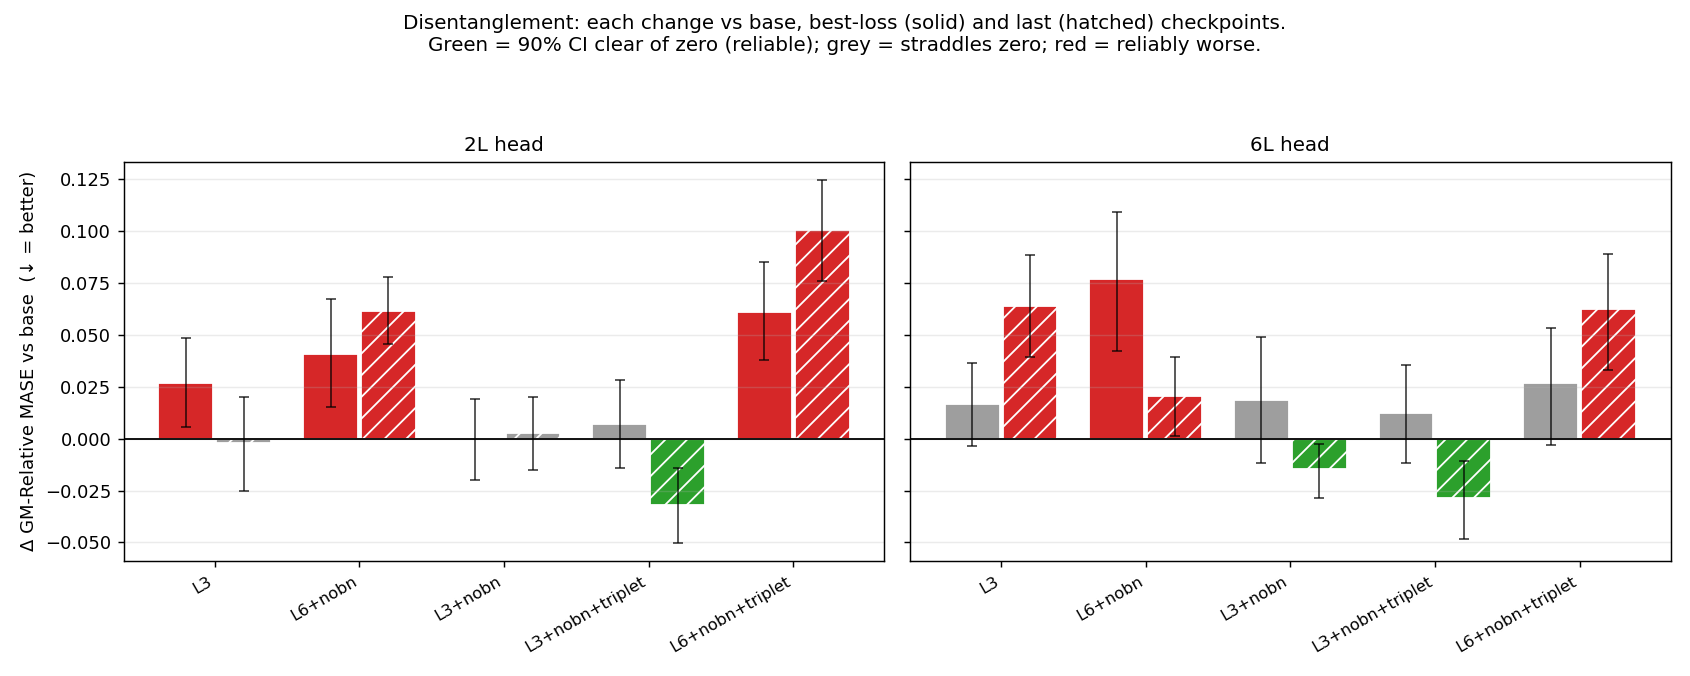
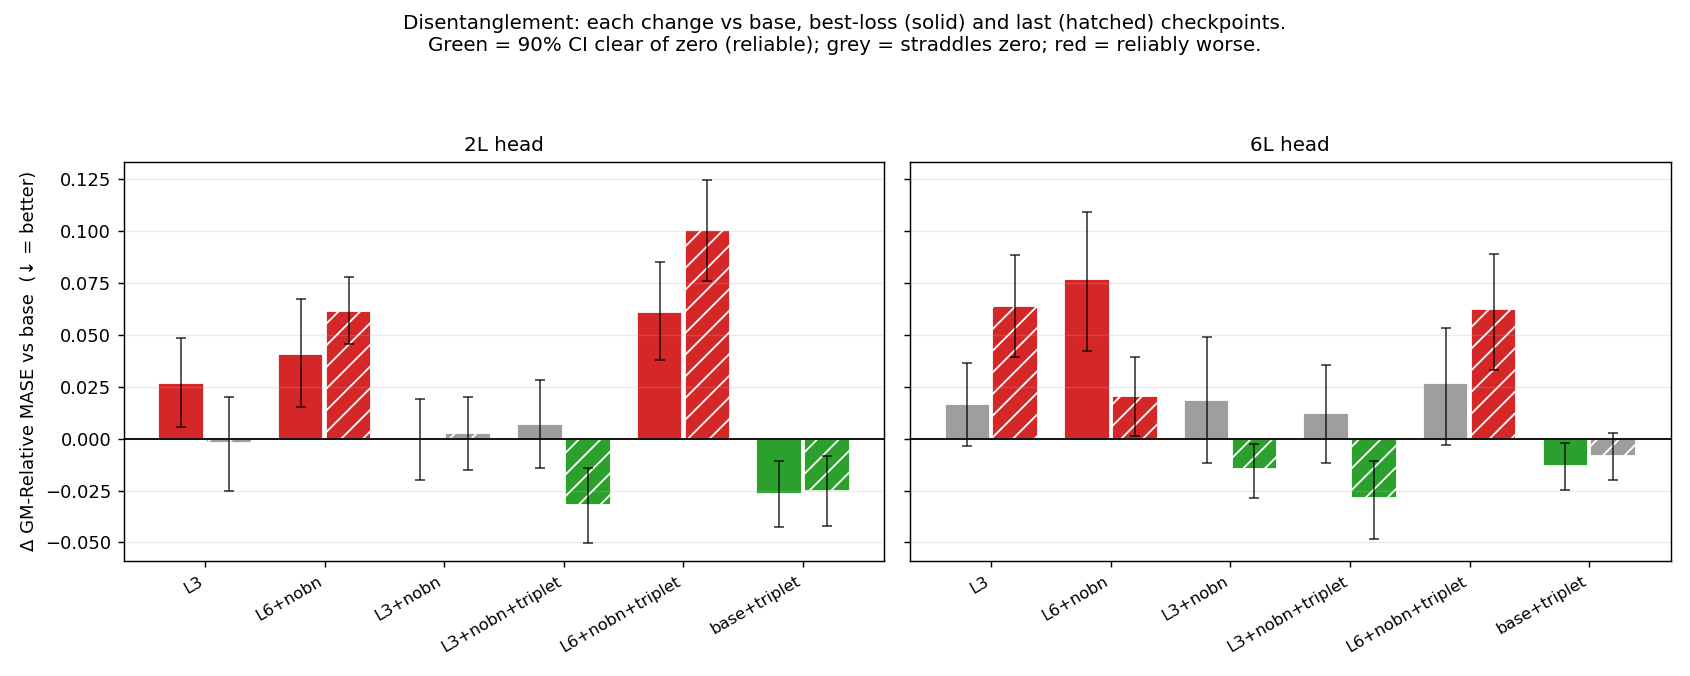
report: final 8-arm results — triplet alone wins on base; two-candidate framing; base+triplet 6L-last ns

diff --git a/experiments/2026-06-03_crossfade_triplet/crossfade_triplet.md b/experiments/2026-06-03_crossfade_triplet/crossfade_triplet.md
@@ -104,9 +104,10 @@ At step 12,500 the arms rank on the pretext task in the opposite order to their 
   loss 0.662 and U_batch 0.197, the easiest pretext and the most-used embedding among the arms) — yet
   it transfers worst.
 
-On this benchmark a lower contrastive loss is not a sign of a better forecasting backbone; the
-triplet's harder pretext is what tracks the downstream gain. No arm collapsed: every used-dimension
-count stays well above zero and forecast-to-future cosine reaches ~0.99.
+On this benchmark a lower contrastive loss is not a sign of a better forecasting backbone. (A harder
+pretext is not required for a gain either — see base+triplet in the follow-up section, which leaves
+the pretext loss essentially unchanged and still transfers better.) No arm collapsed: every
+used-dimension count stays well above zero and forecast-to-future cosine reaches ~0.99.
 
 ## Protocol
 
@@ -136,31 +137,51 @@ comparison measures a joint effect; the disentanglement arms isolate the compone
    heads, and only at full training.
 3. **Train-longer hurts.** Extending to 25k reliably worsens both heads (2L +0.037, 6L +0.024);
    downstream peaks near 12.5k, within the first epoch.
-4. **Lower contrastive loss does not mean better transfer here.** The triplet raises the pretext loss
-   yet improves downstream; dropping the bottleneck lowers the pretext loss yet transfers worst.
+4. **Pretext loss does not predict transfer in either direction.** Dropping the bottleneck gives the
+   lowest contrastive loss and the worst transfer; the headline arm raises the loss and transfers
+   better; base+triplet leaves the loss essentially unchanged (0.881 vs 0.895) and still transfers
+   reliably better. Checkpoint and arm selection should not be driven by the contrastive loss.
 
 ## Follow-up — triplet isolation across architectures
 
 The headline arm bundles the triplet with two architecture changes. Two further arms isolate the
-triplet's effect; L6+nobn+triplet is complete, base+triplet is still training.
+triplet's effect: each pair below differs from its own reference by the triplet alone.
 
-| arm | difference from its base | what it tests | result |
-|---|---|---|---|
-| L6+nobn+triplet | adds the triplet to L6+nobn | does the triplet rescue the otherwise-harmful full-width forecaster at 6 encoder layers? | **No** — reliably worse than base and *degrades* with training: 2L 1.274 → 1.313 (last Δ +0.101), 6L 1.225 → 1.261 (last Δ +0.062). |
-| base+triplet | adds only the triplet to the base | cleanest triplet isolation — base vs base+triplet differ by the triplet alone | pending (backbone training, ETA tonight) |
+| arm | difference from its base | result |
+|---|---|---|
+| **base+triplet** | adds only the triplet to the unmodified base | **Reliably better at both heads at best-loss, and at 2L robust to checkpoint choice**: 2L best 1.186 (Δ −0.027 [−0.042, −0.011]), 2L last 1.187 (Δ −0.025 [−0.042, −0.008]), 6L best 1.185 (Δ −0.013 [−0.025, −0.002]), 6L last 1.190 (Δ −0.008 [−0.020, +0.003], same direction, ns). |
+| L6+nobn+triplet | adds the triplet to L6+nobn | Reliably worse than base and *degrades* with training: 2L 1.274 → 1.313 (last Δ +0.101), 6L 1.225 → 1.261 (last Δ +0.062). |
 
-**The triplet is encoder-depth-specific.** It helps only with the 3-layer encoder: L3+nobn+triplet
-improves with training to a reliable win, while L6+nobn+triplet (the same change on a 6-layer
-encoder) is harmful and worsens with training. This matches the pretext dynamics — at 3 layers the
-triplet raises the contrastive loss (a harder pretext that transfers), whereas at 6 layers the larger
-encoder absorbs it (loss 0.655, essentially the L6+nobn value 0.662), so there is no harder pretext
-and no transfer gain.
+Two readings follow.
 
-The predecessor #326 (a C-only crossfade slice on the 10%-fork base) gave ≈−0.013 over its base,
-smaller than the ≈−0.030 last-checkpoint gain here, so base+triplet is expected to show a modest
-positive effect; the magnitude will fix how much of this arm's gain is the triplet versus an
-interaction with the architecture changes. A further follow-up (carded separately) tests a
-stop-gradient on the encoder's positive term in this best arm.
+**The triplet alone is sufficient.** On the unmodified base it is reliably better at both heads at
+the best-loss checkpoint, without any architecture change — and unlike the headline arm, whose
+verdict flips between checkpoints, its gain does not depend on checkpoint selection at 2L (best
+−0.027, last −0.025, both reliable; at 6L the last checkpoint keeps the direction at −0.008 but is
+within noise). Its 2L gain matches the headline arm's (−0.032 at last); the architecture changes are
+not needed for the effect.
+
+**The failure case is the no-bottleneck 6-layer configuration, not 6-layer encoders.** The triplet
+helps on the base (6-layer encoder, with bottleneck) and on L3+nobn, but is reliably harmful on
+L6+nobn — the one configuration that is already reliably worse than base on its own. The
+pretext-difficulty reading does not explain this: base+triplet leaves the contrastive loss
+essentially at the base value (0.881 vs 0.895) yet transfers better, so a harder pretext is not the
+mechanism of the gain.
+
+The predecessor #326 (a C-only crossfade slice on the 10%-fork base) gave ≈−0.013 over its base —
+the same direction, smaller than base+triplet's −0.027 (2L) here.
+
+**Two candidate recipes, and where this points.** Two configurations improve on the base:
+**base+triplet** (with the 128-wide bottleneck) — the smaller gain but robust to checkpoint choice
+and the simplest change — and **L3+nobn+triplet** (full-width forecaster) — the best single number
+(6L last 1.169) but only at full training, and it needed the encoder shrink to work. The L6+nobn
+results are consistent with the bottleneck acting as protection against the objective being
+exploited: with a full-width forecaster and no other change, the contrastive loss drops to its
+lowest value across all arms while transfer is the worst, i.e. the extra width serves the pretext
+rather than the forecast. If the objective is fixed so that the full-width forecaster cannot exploit
+it, the no-bottleneck line is the preferred direction — the forecaster then learns at the encoder's
+width instead of through a 128-wide pinch. The stop-gradient follow-up (carded separately: stop-grad
+on the encoder side of the positive term, numerator and denominator) is exactly such an attempt.
 
 ---
 
